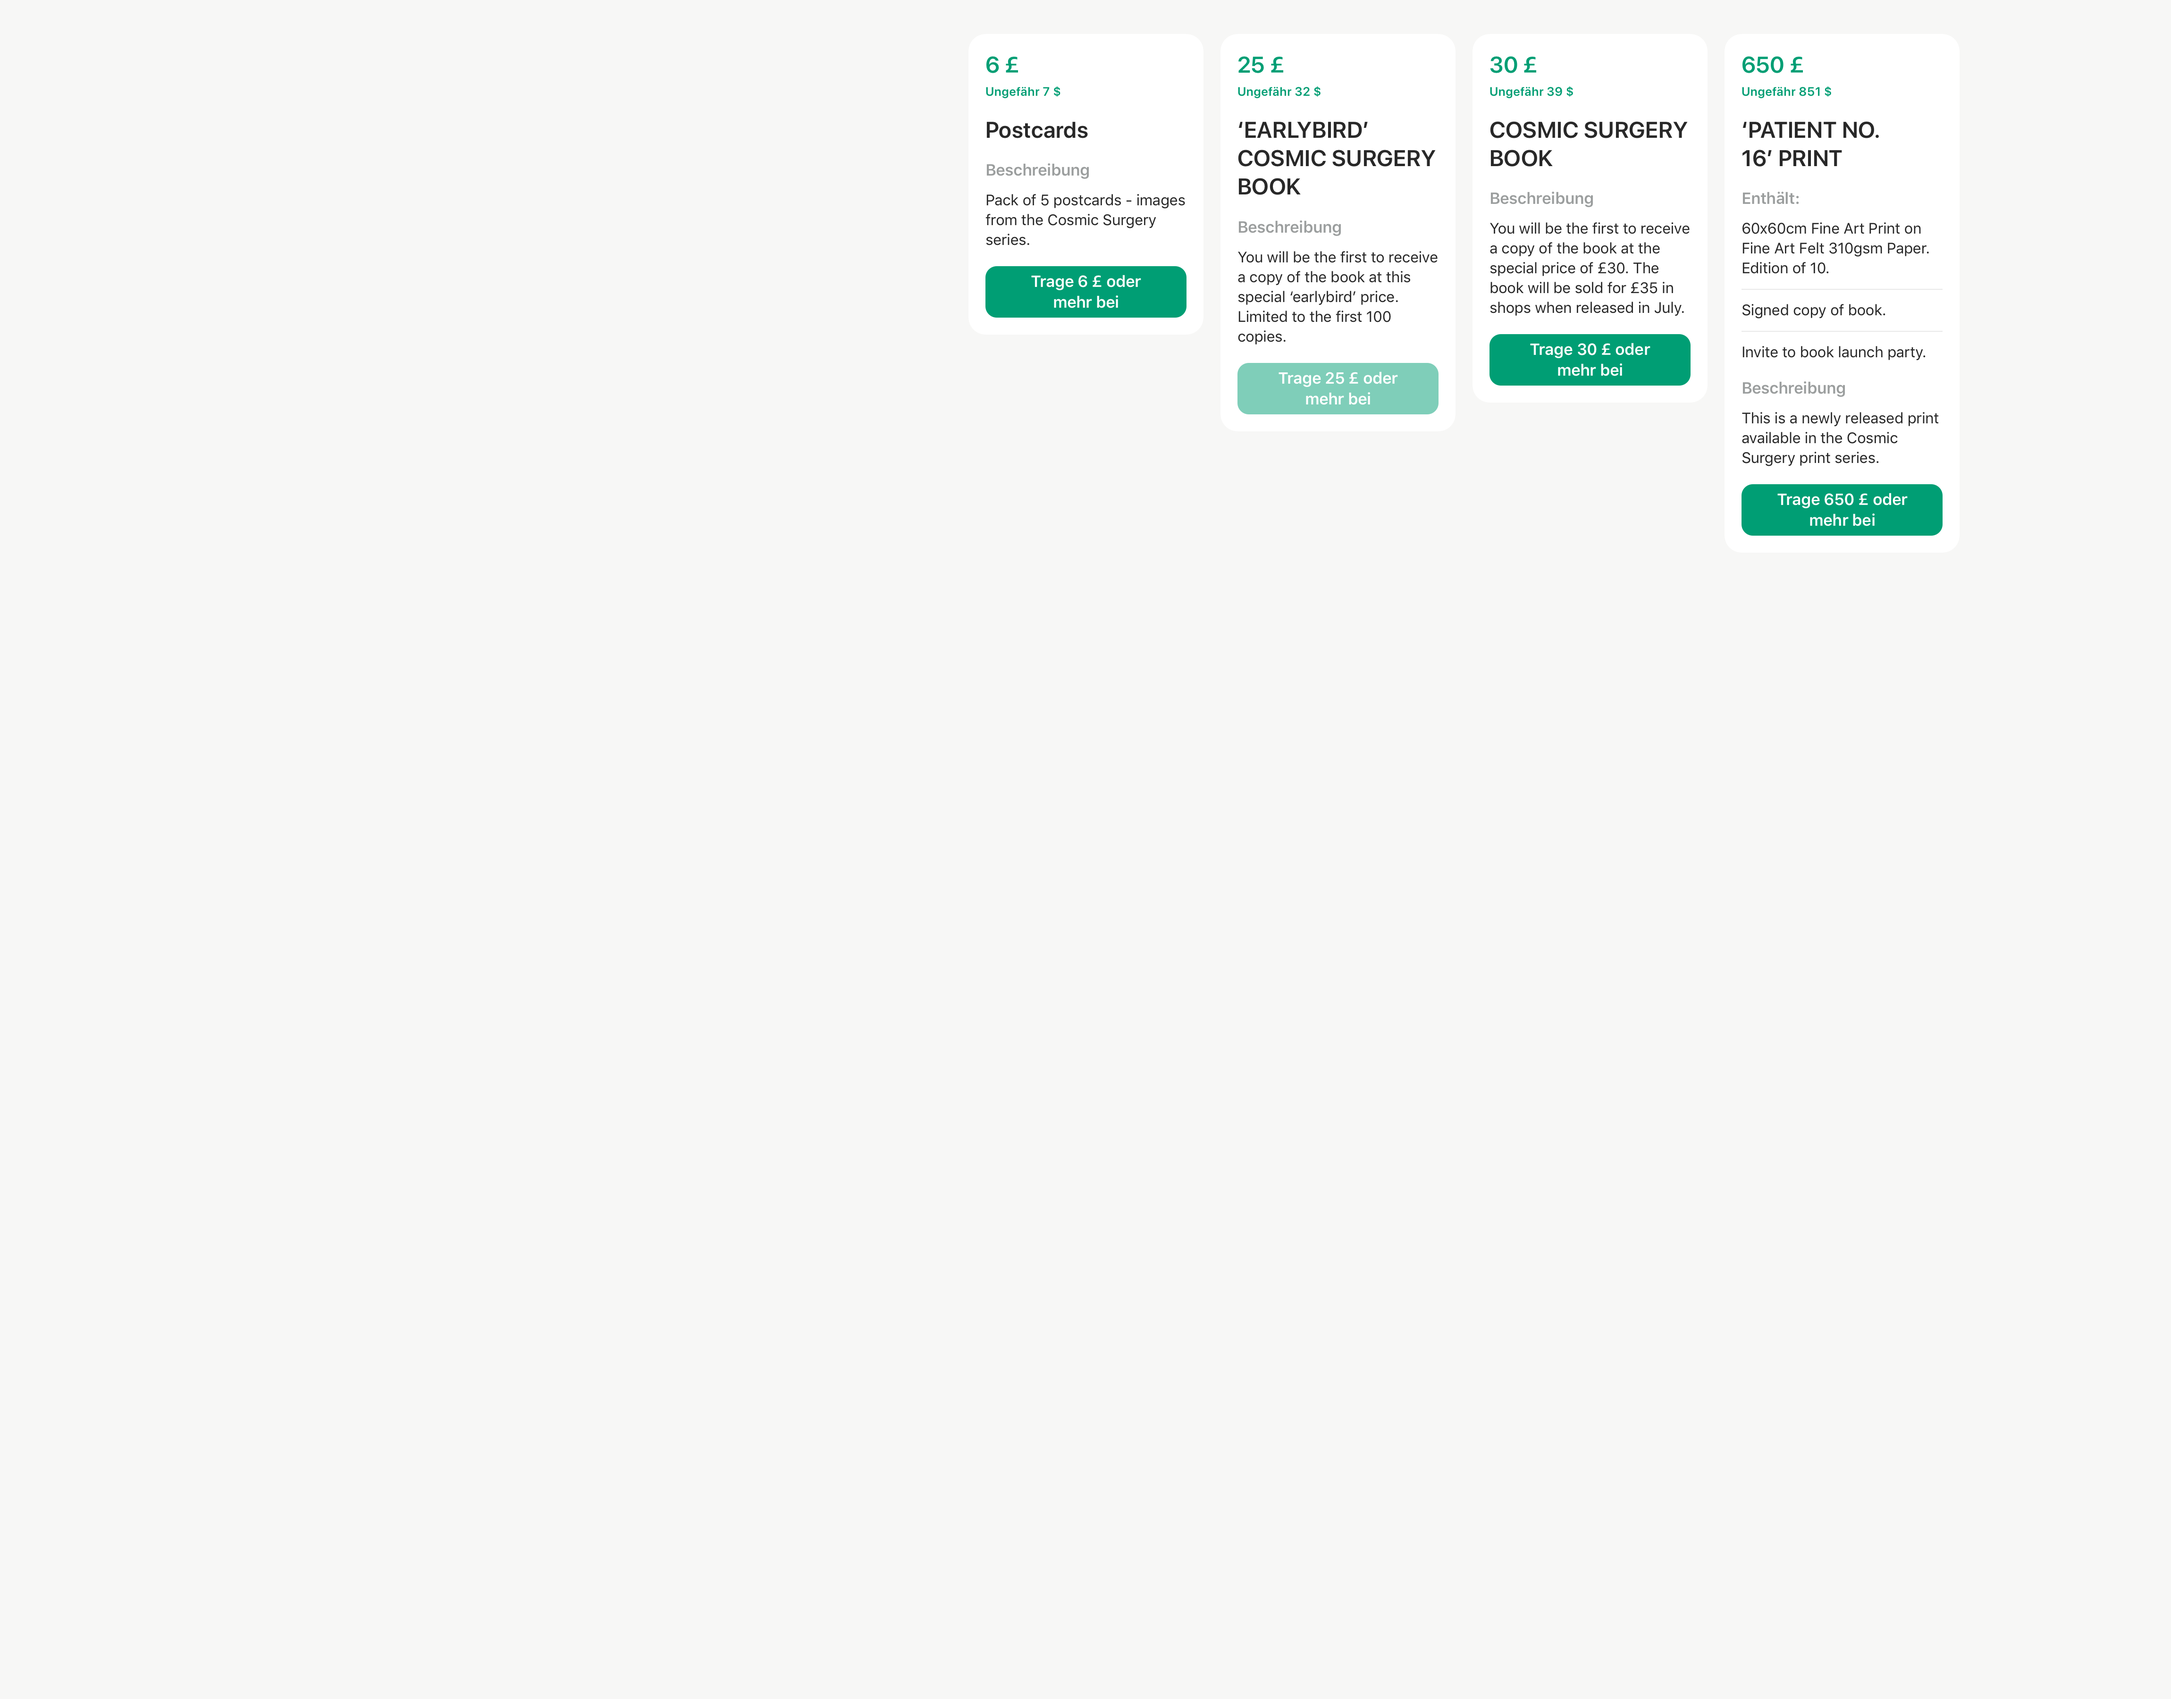
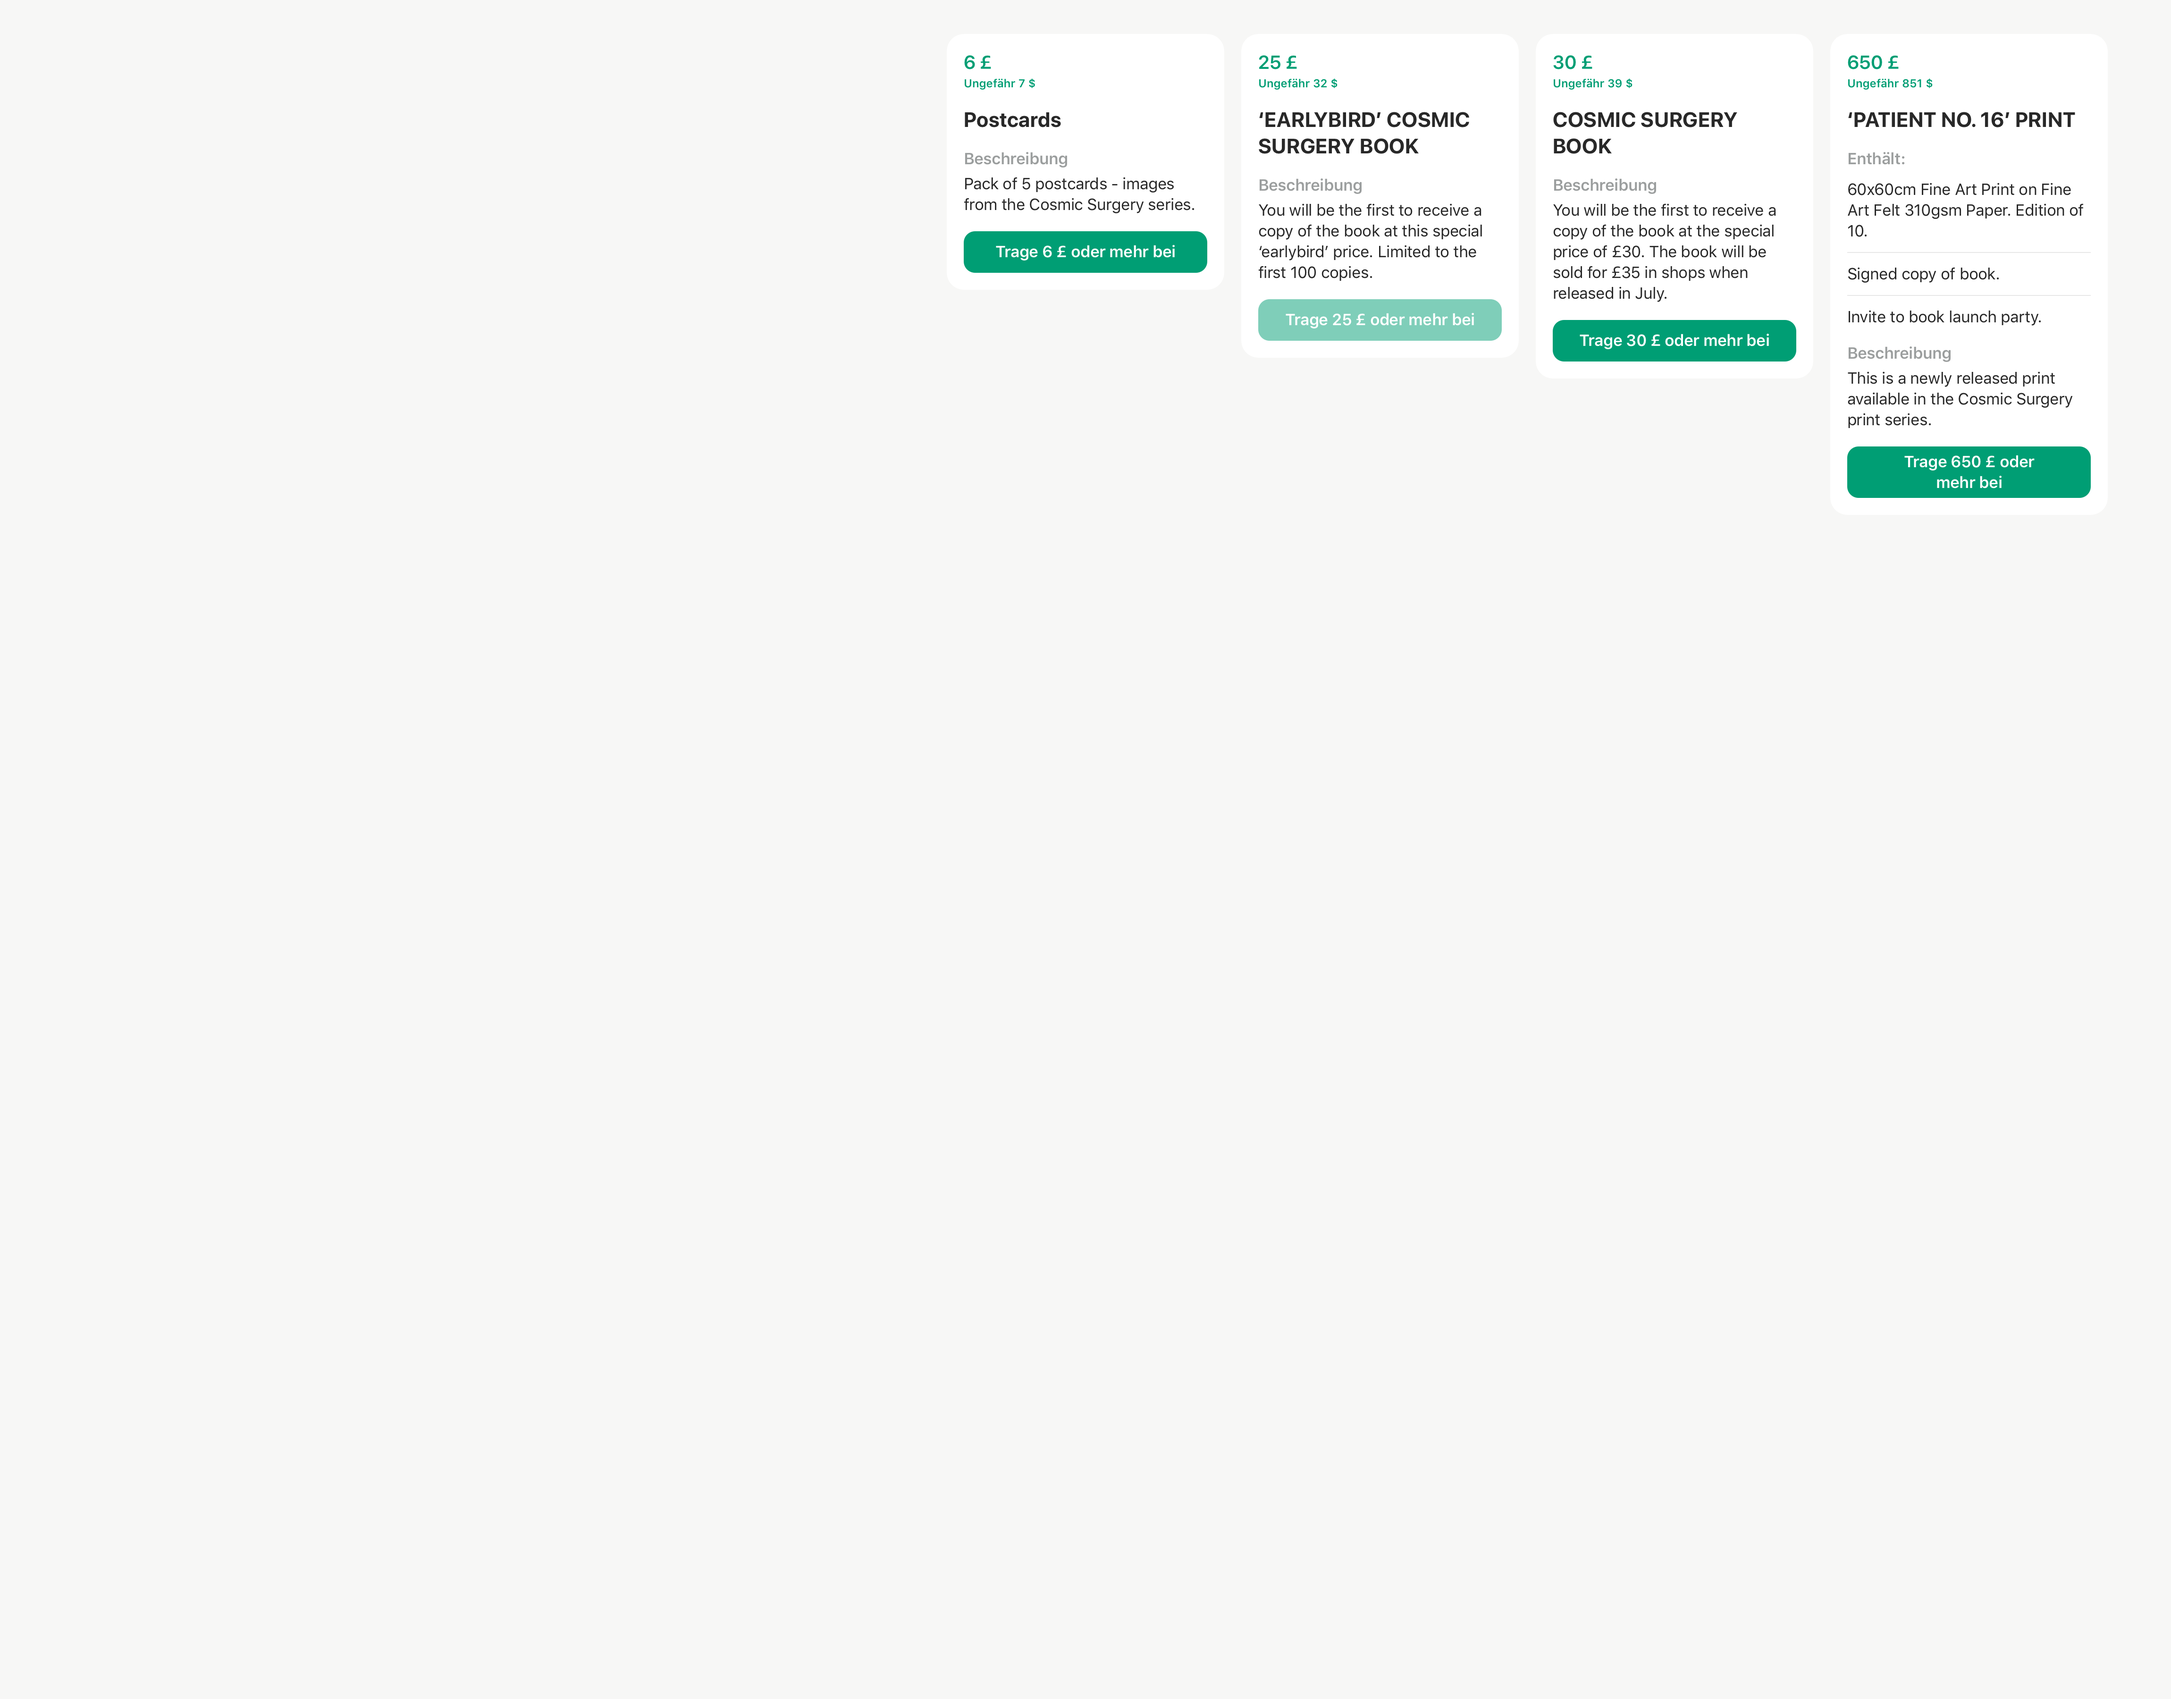
Light design pass and screenshots (#771)

Changed region(s): [[0.4352, 0.0311, 0.9637, 0.3422]]

diff --git a/Kickstarter-iOS/Views/RewardCardView.swift b/Kickstarter-iOS/Views/RewardCardView.swift
@@ -106,6 +106,9 @@ public final class RewardCardView: UIView {
     _ = self.priceStackView
       |> priceStackViewStyle
 
+    _ = self.includedItemsStackView
+      |> includedItemsStackViewStyle
+
     _ = [self.includedItemsTitleLabel, self.descriptionTitleLabel]
       ||> { label in
         label
@@ -310,27 +313,31 @@ private let baseStackViewStyle: StackViewStyle = { stackView in
     |> \.spacing .~ Styles.grid(3)
 }
 
+private let includedItemsStackViewStyle: StackViewStyle = { stackView in
+  stackView |> \.spacing .~ Styles.grid(2)
+}
+
 private let minimumPriceLabelStyle: LabelStyle = { label in
   label
     |> \.textColor .~ .ksr_green_500
-    |> \.font .~ UIFont.ksr_headline(size: 24).bolded
+    |> \.font .~ UIFont.ksr_title3().bolded
 }
 
 private let minimumPriceConversionLabelStyle: LabelStyle = { label in
   label
     |> \.textColor .~ .ksr_green_500
-    |> \.font .~ UIFont.ksr_headline(size: 13)
+    |> \.font .~ UIFont.ksr_caption1().bolded
 }
 
 private let priceStackViewStyle: StackViewStyle = { stackView in
   stackView
-    |> \.spacing .~ Styles.grid(1)
+    |> \.spacing .~ Styles.gridHalf(1)
 }
 
 private let rewardTitleLabelStyle: LabelStyle = { label in
   label
     |> \.textColor .~ .ksr_soft_black
-    |> \.font .~ UIFont.ksr_headline(size: 24).bolded
+    |> \.font .~ UIFont.ksr_title2().bolded
 }
 
 private let sectionStackViewStyle: StackViewStyle = { stackView in
@@ -338,7 +345,7 @@ private let sectionStackViewStyle: StackViewStyle = { stackView in
     |> \.axis .~ .vertical
     |> \.alignment .~ .fill
     |> \.distribution .~ .fill
-    |> \.spacing .~ Styles.grid(2)
+    |> \.spacing .~ Styles.grid(1)
 }
 
 private let sectionTitleLabelStyle: LabelStyle = { label in
@@ -350,7 +357,7 @@ private let sectionTitleLabelStyle: LabelStyle = { label in
 private let sectionBodyLabelStyle: LabelStyle = { label in
   label
     |> \.textColor .~ .ksr_soft_black
-    |> \.font .~ .ksr_callout()
+    |> \.font .~ UIFont.ksr_body()
 }
 
 private let stateImageViewStyle: ImageViewStyle = { imageView in

diff --git a/Kickstarter-iOS/Views/Controllers/RewardsCollectionViewController.swift b/Kickstarter-iOS/Views/Controllers/RewardsCollectionViewController.swift
@@ -88,7 +88,7 @@ final class RewardsCollectionViewController: UICollectionViewController {
     super.bindStyles()
 
     _ = self.view
-      |> \.backgroundColor .~ .ksr_grey_200
+      |> \.backgroundColor .~ .ksr_grey_400
 
     _ = self.collectionView
       |> collectionViewStyle

diff --git a/Library/Styles/CheckoutStyles.swift b/Library/Styles/CheckoutStyles.swift
@@ -6,7 +6,7 @@ import UIKit
 public enum CheckoutConstants {
   public enum RewardCard {
     public enum Layout {
-      public static let width: CGFloat = 249
+      public static let width: CGFloat = 294
     }
 
     public enum Transition {
